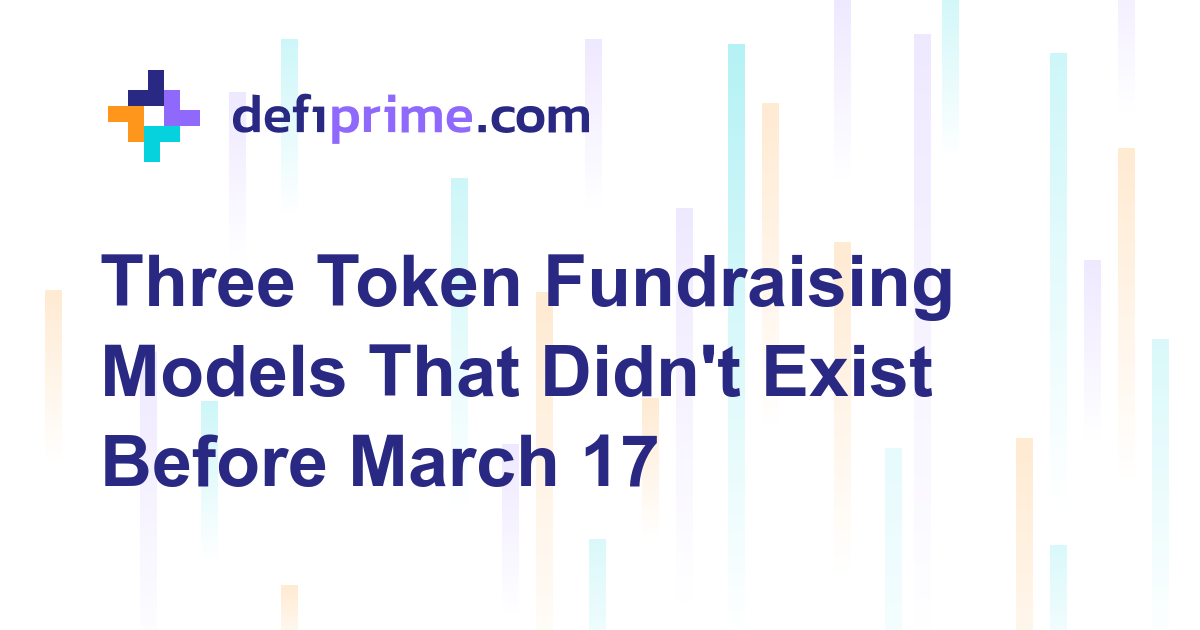
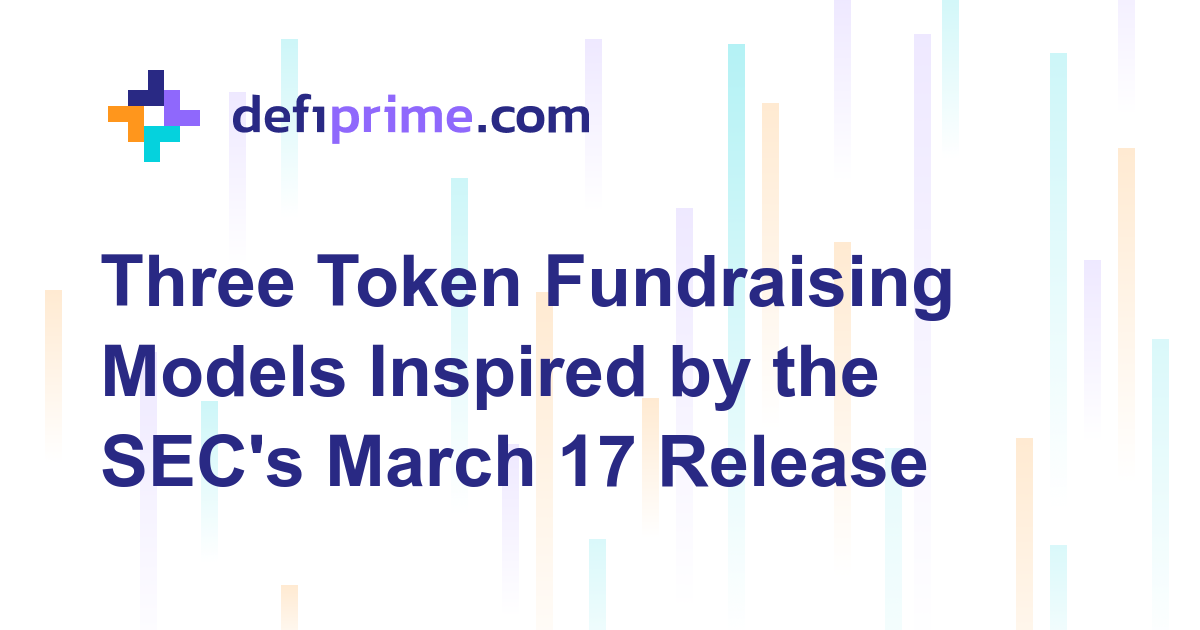
Rewrite to address legal overreach criticism
- Reframe from "these are compliant" to "thought experiments inspired by"
- Add honest legal risk analysis for each model (SARR weakest, LGSP closest)
- Qualify separation doctrine as fact-specific, not mechanical
- Note release covers existing activities, not novel combinations
- Add not-legal-advice disclaimer
- Regenerate OGP with updated title

Changed region(s): [[0.0617, 0.6635, 0.7708, 0.7841], [0.3083, 0.5429, 0.7708, 0.6635]]

diff --git a/collections/_posts/2026-03-23-token-fundraising-models-post-sec.md b/collections/_posts/2026-03-23-token-fundraising-models-post-sec.md
@@ -1,30 +1,32 @@
 ---
 git-date:
 layout: [blog]
-title: "Three Token Fundraising Models That Didn't Exist Before March 17, 2026"
+title: "Three Token Fundraising Models Inspired by the SEC's March 17 Release"
 permalink: token-fundraising-models-post-sec
-h1title: "Three Token Fundraising Models That Didn't Exist Before March 17"
-pagetitle: "Three Token Fundraising Models That Didn't Exist Before the SEC's March 17 Release"
-metadescription: "The SEC's Interpretive Release 33-11412 cleared staking, wrapping, and airdrops. Here are three fundraising models you can actually build with the new rules."
+h1title: "Three Token Fundraising Models Inspired by the SEC's March 17 Release"
+pagetitle: "Three Token Fundraising Models Inspired by SEC Interpretive Release 33-11412"
+metadescription: "The SEC's Interpretive Release 33-11412 cleared specific crypto activities. We explore three speculative fundraising models inspired by the new guidance and where the legal risk still lives."
 category: blog
 featured-image: /images/blog/token-fundraising-models-post-sec-ogp.png
-intro: "The SEC's Interpretive Release 33-11412 cleared staking, wrapping, and airdrops. Here are three fundraising models you can actually build with the new rules."
+intro: "The SEC's Interpretive Release 33-11412 cleared specific crypto activities. We explore three speculative fundraising models inspired by the new guidance and where the legal risk still lives."
 author: sawinyh
 tags: ["Analysis"]
 ---
 
 On March 17, the SEC and CFTC jointly published [Interpretive Release No. 33-11412](/sec-defi-release-33-11412), a 68-page document that did something the crypto industry had been begging for since 2017: it drew actual lines. Not enforcement actions disguised as guidance. Not speeches that contradicted each other from one commissioner to the next. Lines.
 
-The release classifies crypto assets into five categories, declares that staking, liquid staking derivatives, wrapping, and qualifying airdrops fall outside securities law, and introduces a "separation doctrine" that gives projects a defined off-ramp from investment-contract status once they decentralize. Chairman Paul Atkins said the quiet part loud: "Most crypto assets are not themselves securities."
+The release classifies crypto assets into five categories and declares that specific, common crypto activities, staking, liquid staking derivatives, wrapping, and qualifying airdrops, "in the manner and under the circumstances described," fall outside securities law. It also introduces a "separation doctrine" that gives projects a potential off-ramp from investment-contract status once they decentralize. Chairman Paul Atkins said the quiet part loud: "Most crypto assets are not themselves securities."
 
-We've read the release cover to cover. The legal analysis has been done to death by every law firm with a blockchain practice. What hasn't been explored yet is this: *what can you actually build with these new rules?*
+We've read the release cover to cover. The legal analysis has been done to death by every law firm with a blockchain practice. What hasn't been explored yet is this: *what design space does this guidance open up, at least in theory?*
 
-Below are three token-based fundraising and treasury models that were legally impossible, or at least legally terrifying, before 33-11412. None of them are SAFTs. None rely on token sales. All of them treat the native token as a commodity from day one and use only the activities the SEC just cleared. We ran simulations on each, and the numbers hold up better than most 2021-era tokenomics ever did.
+**An important caveat before we go further:** The release cleared specific activities as they commonly exist today. It did not pre-approve novel fundraising structures that chain those activities together in new ways. The three models below are thought experiments, not legal opinions. They use primitives the SEC described, but combine them into constructions the release never analyzed. Any team considering something like these would need its own legal counsel and a fact-specific analysis. We flag the legal risk for each model honestly, including where we think the arguments are weakest.
+
+With that framing, here are three token-based fundraising and treasury designs that become *easier to reason about* after 33-11412, even if they aren't blessed by it. We ran economic simulations on each, and the numbers are interesting regardless of where the legal lines ultimately land.
 
 
 ## What Actually Changed (the 90-Second Version)
 
-For readers who haven't waded through the release, here's what matters for protocol design:
+For readers who haven't waded through the release, here's what the SEC and CFTC actually said. Note: these apply to activities "in the manner and under the circumstances described" in the release, meaning existing common practices, not hypothetical new constructions:
 
 **Native tokens of functional, decentralized networks are digital commodities.** Bitcoin, Ethereum, Solana, Cardano, Chainlink, and at least ten others are named explicitly. If no single person or group controls a network's operations, economics, or upgrades, the native token is probably a commodity under CFTC jurisdiction, not the SEC's.
 
@@ -36,9 +38,9 @@ For readers who haven't waded through the release, here's what matters for proto
 
 **Qualifying airdrops fail the Howey test.** No consideration from recipients means no "investment of money." Community drops, retroactive rewards, testnet airdrops, all clear.
 
-**The separation doctrine gives projects an exit.** Once promises are fulfilled, code is open-sourced, and the network decentralizes, the token separates from any prior investment contract. Secondary trading becomes non-security activity.
+**The separation doctrine describes a potential exit.** The release suggests that once promises are fulfilled, code is open-sourced, and the network genuinely decentralizes, the token may separate from any prior investment contract. But the conditions are fact-specific and require careful legal analysis, it's not a mechanical trigger you can just declare. As the Aurum Law analysis noted, you'll likely need a legal opinion benchmarked against your own prior representations.
 
-That's the toolkit. Now here's what you can build with it.
+That's what the release actually cleared. Below, we explore what *might* be buildable in its spirit, with full acknowledgment that these are extrapolations, not covered ground.
 
 
 ## Model 1: Liquid Genesis Staking Pools (LGSP)
@@ -68,11 +70,13 @@ The "fundraise" is locked TVL, not sold equity. Protocol revenue from fees, MEV,
 
 We ran a 12-month simulation starting from $10M TVL with a 5% LSD base yield, 20% annual token emission relative to TVL, 10% protocol revenue, and 2% monthly organic TVL growth. By month 12, the TVL reached roughly $13.3M. The circulating token supply hit about 116M tokens. Market cap landed around $2.5M with a token price near $0.02.
 
-Early stakers capture upside while the protocol gets instant, sticky capital. Zero legal friction.
+Early stakers capture upside while the protocol gets instant, sticky capital.
 
-### Why It's Compliant
+### The Legal Case and Its Limits
 
-Pure protocol staking plus LSD issuance plus commodity-token rewards. No offer or sale of a security. If the team never promises profits, it stays clean even before separation. The SEC's own language in the release says rewards are payments in exchange for services provided to the network, not profits from managerial efforts.
+Of the three models, LGSP stays closest to what the release actually describes. Each individual component, staking, LSD issuance, programmatic rewards, is an activity the SEC addressed. The release says staking rewards are payments in exchange for services provided to the network, not profits from managerial efforts.
+
+The open question is whether combining these primitives into a deliberate fundraising mechanism changes the analysis. A staking pool designed from day one to bootstrap a protocol's treasury looks different from Ethereum validators earning rewards on an established network. If users are staking primarily because they expect the new protocol's token to appreciate, a court might view that differently than the SEC's description of routine staking. The team's conduct matters enormously here: any marketing that frames staking as an investment opportunity could undermine the entire structure.
 
 
 ## Model 2: Commodity Pre-Participation Agreements (CPAs)
@@ -116,9 +120,13 @@ Early participants "pre-mine" their allocation through real work and capital whi
 
 The CPA model starts with a $5M initial contribution raise, giving it an immediate war chest. With a 50% ongoing treasury allocation and flat 10% emission cap, our simulation showed treasury staying above 29 months of runway through the first year. By month 12, TVL reached $13.5M, and token price sat around $0.46. Dilution over five years stayed at only about 40%, the best price performance of all three models.
 
-### Why This Actually Works
+### The Legal Case and Its Limits
 
-The SAFT had a structural contradiction: you're selling something and simultaneously arguing it's not the thing you need registration to sell. CPAs sidestep this. You never sell the token. You incentivize contributions through wrapped commodity rights that convert post-decentralization. The SEC's release says wrapping is safe, staking is safe, and separation gives you the clean break. CPAs chain all three together.
+The SAFT had a structural contradiction: you're selling something and simultaneously arguing it's not the thing you need registration to sell. CPAs attempt to sidestep this by never selling the token directly.
+
+But here's where it gets uncomfortable: "participation rights" that convert into tokens post-milestones and trade on DEXs in the meantime look a lot like investment contracts. If people are buying these rights on a DEX because they expect the token conversion to be profitable, that's hard to distinguish from a securities offering regardless of the wrapping mechanism. The SEC's release cleared wrapping of existing non-security crypto assets on a one-for-one basis, not wrapping novel pre-token claims. A CPA right is not wETH. Calling it a "wrapped commodity" doesn't make it one if the underlying right hasn't been established as a commodity in the first place.
+
+This model would need the strongest legal opinion of the three, and the outcome is genuinely uncertain.
 
 
 ## Model 3: Separation-Accelerated Revenue Rights (SARR)
@@ -149,9 +157,15 @@ The model creates a "decentralization bond" market. The price of rights rises as
 
 In our simulation, SARR showed the strongest long-term treasury sustainability. By month 45, the project achieves positive treasury, with growing runway thereafter. By month 60 (five years), the treasury covers 6-7 months of operating expenses and is still growing. Dilution stayed around 49% over five years. The decay function means every milestone literally pays the dev team more, since less revenue flows to early holders and more stays in the treasury.
 
-### Why SARR Might Be the Best Model for New Protocols
+### Why SARR Is Interesting as a Design Primitive
 
-It solves the biggest problem in crypto: aligning the founding team's financial interests with actual decentralization. Under the old regime, founders had every reason to maintain control, because that's where the value accrued. SARR inverts this. Centralization is expensive (high revenue share to early holders). Decentralization is profitable (lower share plus freely tradable commodity token).
+It attempts to solve the biggest problem in crypto: aligning the founding team's financial interests with actual decentralization. Under the old regime, founders had every reason to maintain control, because that's where the value accrued. SARR inverts this. Centralization is expensive (high revenue share to early holders). Decentralization is profitable (lower share plus freely tradable commodity token).
+
+### The Legal Case and Its Limits
+
+Of the three models, SARR has the most obvious legal vulnerability. A claim on a percentage of protocol fees, paid in the native token, that decays over time, looks like a profit-sharing instrument under almost any reading of Howey. Calling it a "wrapped revenue commodity right" is creative labeling, but substance matters more than labels in securities law. The release cleared wrapping of existing non-security crypto assets. It did not address wrapping novel revenue claims.
+
+The decay mechanism is economically elegant but doesn't solve the Howey problem. If anything, the milestone-gated structure reinforces that holders are depending on the team's managerial efforts to hit decentralization targets that increase the token's tradability. A skeptical regulator would have a strong argument here.
 
 
 ## Can These Models Actually Fund a Real Team?
@@ -178,7 +192,7 @@ For the bridge period (roughly months 1-18), projects using LGSP or SARR would p
 
 ## What About the Caveats?
 
-We'd be doing the reader a disservice if we didn't flag the risks.
+We'd be doing the reader a disservice if we didn't flag the structural risks, beyond the model-specific issues above.
 
 **33-11412 is interpretive guidance, not statutory law.** It's the SEC's view of how existing law applies. It doesn't bind courts, and a future commission could revise it. That said, revising a jointly issued SEC/CFTC interpretation would be politically expensive and legally complex. This is about as durable as non-legislative guidance gets.
 
@@ -197,10 +211,12 @@ The 33-11412 release is open for public comment. CFTC rulemaking on commodities 
 
 But the gap is navigable now in ways it wasn't two weeks ago. Protocols can design around the five-category taxonomy instead of guessing. They can use staking, wrapping, and airdrops as fundraising primitives without wondering whether each one is a potential enforcement action. And they can build toward the separation doctrine as a defined milestone rather than a vague aspiration.
 
-The three models above aren't theoretical. Every component, staking pools, LSD issuance, wrapped receipts, programmatic rewards, milestone-gated conversion, on-chain revenue sharing, exists in production today across multiple chains. What didn't exist was the regulatory clarity to combine them into coherent fundraising mechanisms.
+Every individual component in the models above, staking pools, LSD issuance, wrapped receipts, programmatic rewards, milestone-gated conversion, on-chain revenue sharing, exists in production today across multiple chains. What 33-11412 provides is clearer language around those individual primitives. What it does *not* provide is a blessing for novel combinations of those primitives into fundraising mechanisms the release never contemplated.
 
-Now it does.
+That's the honest gap. The release makes it easier to reason about these designs. It does not make them safe to ship without serious legal work. LGSP is closest to covered ground. CPAs and SARR are more creative but carry proportionally more legal risk, SARR especially.
 
-The next few months will reveal whether founders actually use this window or keep incorporating in the Cayman Islands out of habit. If we had to bet, we'd say the first LGSP or CPA launches on Ethereum before June. The regulatory runway is there. The smart contract infrastructure is there. The institutional capital that's been sitting on the sidelines waiting for exactly this kind of clarity is there too.
+The next few months will reveal whether founders treat the release as a starting point for careful legal engineering or as a green light for creative tokenomics. History suggests some will do the latter and regret it. The design space is genuinely more interesting after March 17. But "more interesting" and "legally cleared" are very different things.
 
-The question isn't whether these models work on paper. It's who ships first.
+---
+
+*Disclaimer: This article is not legal advice and was not written or reviewed by attorneys. It represents our observations on what might theoretically be possible in the design space opened by Interpretive Release 33-11412. The models described are speculative thought experiments, not recommendations. The SEC's release cleared specific existing activities under specific conditions; it did not analyze or approve the constructions described here. Anyone considering building on these ideas should engage qualified legal counsel for a fact-specific analysis. The tokenomic simulations use illustrative assumptions and are not predictive. Nothing here constitutes financial or investment advice.*
